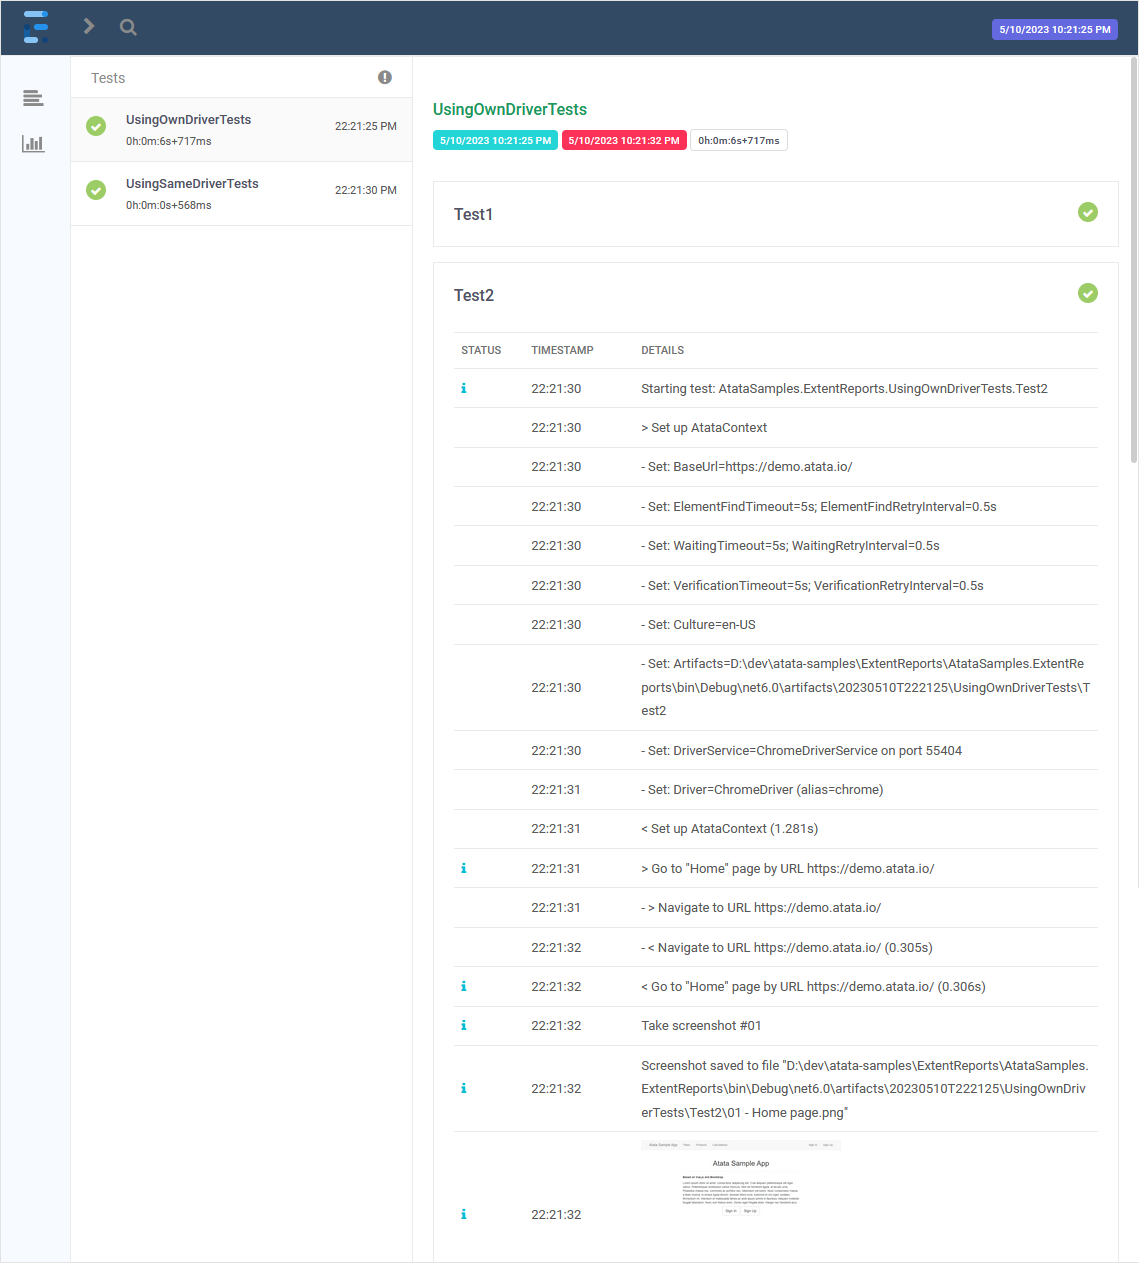
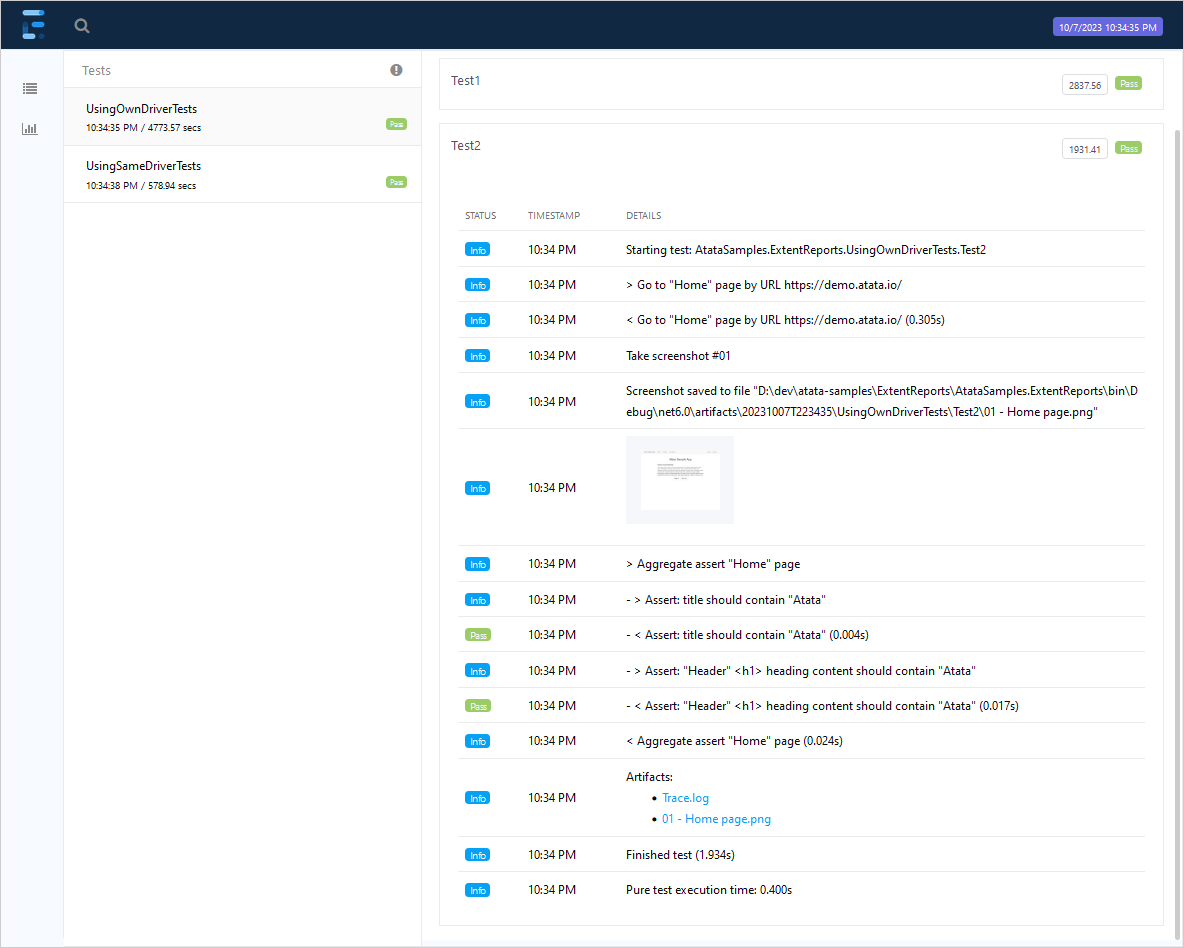
Update "Reporting to Extent Reports" tutorial

diff --git a/tutorials/reporting-to-extentreports/index.md b/tutorials/reporting-to-extentreports/index.md
@@ -17,10 +17,12 @@ How to configure Atata reporting to [Extent Reports](https://extentreports.com/)
 
 In addition to {% include nuget.md name="Atata" %} package,
 the {% include nuget.md name="ExtentReports" %} package should be added to the project.
+It is also recommended to add {% include nuget.md name="NLog" %} package,
+as it's used in the sample project.
 
 ## Implementation
 
-The functionality for Extent Reports is implemented in 3 class files:
+The functionality for Extent Reports is implemented in 4 class files:
 
 - [**ExtentContext.cs**]({{ page.sources_path }}Infrastructure/ExtentContext.cs) -
   the main static class responsible for an initialization of Extent Reports.
@@ -30,19 +32,24 @@ The functionality for Extent Reports is implemented in 3 class files:
 - [**ExtentLogConsumer.cs**]({{ page.sources_path }}Infrastructure/ExtentLogConsumer.cs) -
   is responsible for reporting of log messages.
   Also does formatting of message.
-- [**ExtentScreenshotFileEventHandler.cs**]({{ page.sources_path }}Infrastructure/ExtentScreenshotFileEventHandler.cs) -
-  is responsible for screenshot saving and adding them to report.
+- [**ExtentArtifactAddedEventHandler.cs**]({{ page.sources_path }}Infrastructure/ExtentArtifactAddedEventHandler.cs) -
+  is responsible for screenshots adding to report.
+- [**AddArtifactsToExtentReportOnCleanUpEventHandler.cs**]({{ page.sources_path }}Infrastructure/AddArtifactsToExtentReportOnCleanUpEventHandler.cs) -
+  adds "Artifacts" markup to test reports.
 
-You can copy these files to your project and modify according to your project's needs.
+You can copy [all those files]({{ page.sources_path }}Infrastructure) to your project and modify according to your project's needs.
+
+Later a separate Atata.ExtentReports NuGet package is planned to be published.
+{:.info}
 
 ## Configuration
 
 In order to connect Extent Reports functionality to Atata,
-`ExtentLogConsumer` and `ExtentScreenshotFileEventHandler` should be added to `AtataContextBuilder`.
+`ExtentLogConsumer`, `ExtentArtifactAddedEventHandler` and `AddArtifactsToExtentReportOnCleanUpEventHandler` should be added to `AtataContextBuilder`.
 
 ### SetUpFixture
 
-1. `ExtentScreenshotFileEventHandler` can be added to `EventSubscriptions` in `SetUpFixture`.
+1. `ExtentArtifactAddedEventHandler` can be added to `EventSubscriptions` in `SetUpFixture`.
 1. To perform a generation of report file, `ExtentContext.Reports.Flush()` method should be executed
    as a final action of a tests run.
    In NUnit a good place for it is `OneTimeTearDown` method of `SetUpFixture.cs`.
@@ -69,8 +76,9 @@ public class SetUpFixture
             .UseBaseUrl("https://demo.atata.io/")
             .UseCulture("en-US")
             .UseAllNUnitFeatures()
+            .LogConsumers.AddNLogFile()
             .ScreenshotConsumers.AddFile()
-            .EventSubscriptions.Add(new ExtentScreenshotFileEventHandler());
+            .EventSubscriptions.Add(new ExtentArtifactAddedEventHandler());
 
         AtataContext.GlobalConfiguration.AutoSetUpDriverToUse();
     }
@@ -122,7 +130,9 @@ public class UITestFixture
     public void SetUp()
     {
         var testContextBuilder = AtataContext.Configure()
-            .LogConsumers.Add<ExtentLogConsumer>();
+            .LogConsumers.Add<ExtentLogConsumer>()
+                .WithMinLevel(LogLevel.Info)
+            .EventSubscriptions.Add(new AddArtifactsToExtentReportOnCleanUpEventHandler());
 
         if (UseFixtureDriverForTests)
             testContextBuilder.UseDriver(FixtureContext.Driver);
@@ -210,8 +220,8 @@ public class UsingSameDriverTests : UITestFixture
 ## Results
 
 After a tests run, the generated Extent HTML report can be found by relative path:
-`\AtataSamples.ExtentReports\bin\Debug\net6.0\artifacts\{DATETIME_OF_RUN}\index.html`.
+`\AtataSamples.ExtentReports\bin\Debug\net7.0\artifacts\{DATETIME_OF_RUN}\Report.html`.
 
-![Extent Report](report.png?v2)
+![Extent Report](report.png?v3)
 
 {{ download-section }}
